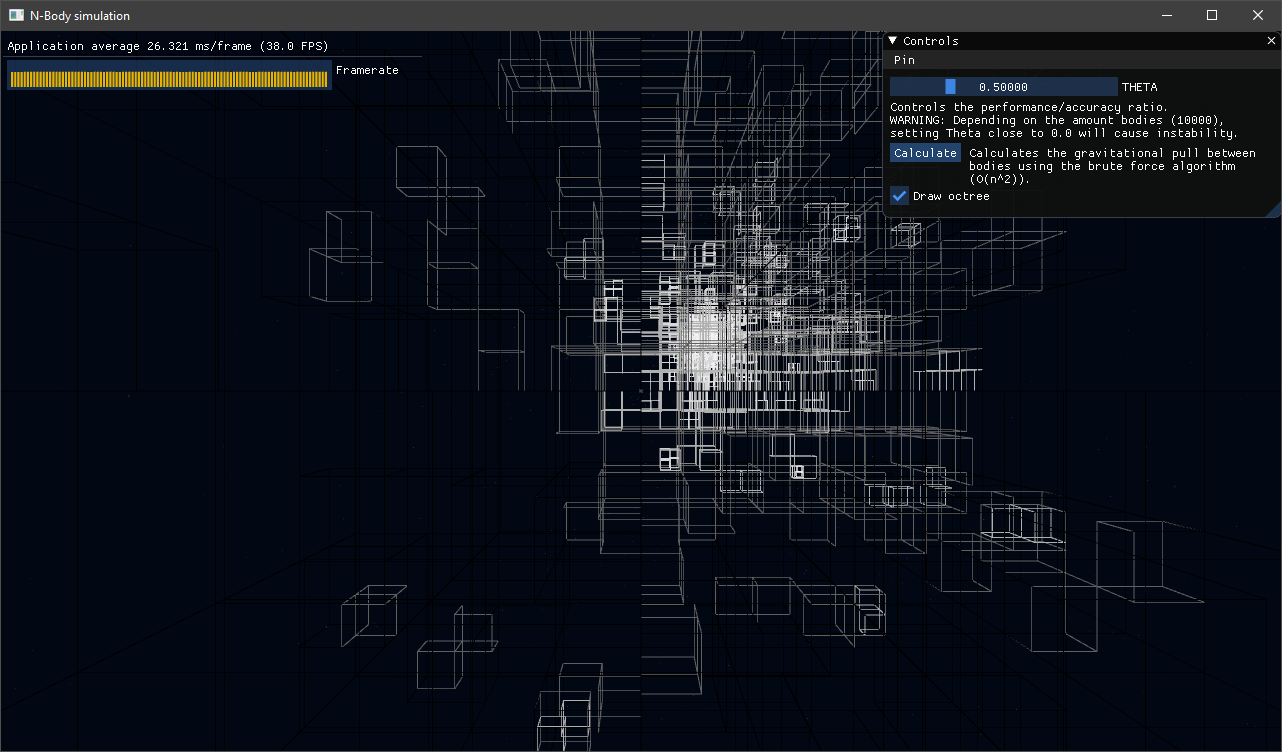
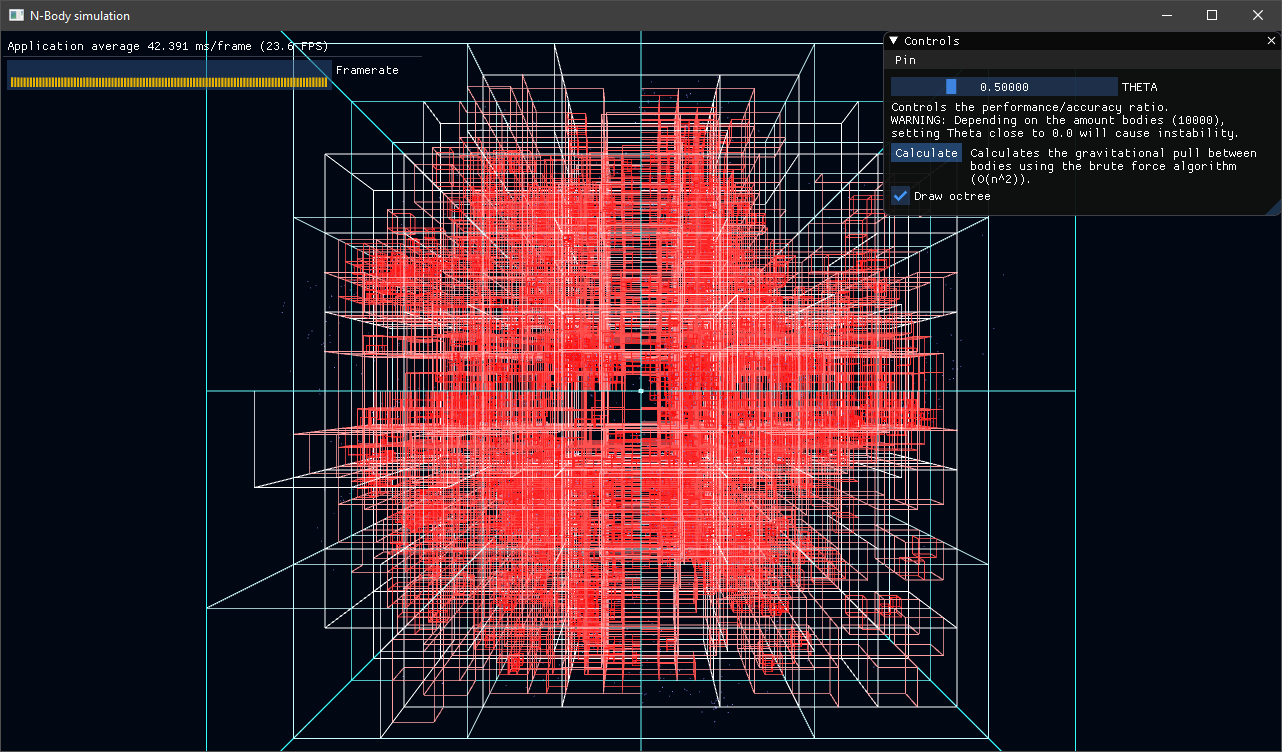
Updated visualization.

diff --git a/nbody/Graphics.cpp b/nbody/Graphics.cpp
@@ -105,20 +105,20 @@ void initGFXBodies(const glm::mat4& MVP)
 
 	const float vertices[] =
 	{
-		-X,  Y,  Z,  -X,  Y, -Z,
-		 X,  Y,  Z,   X,  Y, -Z,
-		-X,  Y, -Z,  -X,  Y,  Z,
-		 X,  Y, -Z,   X,  Y,  Z,
+		-X,  Y,  Z,
+		 X,  Y,  Z,
+		-X,  Y, -Z,
+		 X,  Y, -Z,
 					  
-		 Y,  Z,  X,   Y,  Z, -X,
-		 Y,  Z, -X,   Y,  Z,  X,
-		 Y, -Z,  X,   Y, -Z, -X,
-		 Y, -Z, -X,   Y, -Z,  X,
+		 Y,  Z,  X,
+		 Y,  Z, -X,
+		 Y, -Z,  X,
+		 Y, -Z, -X,
 					  
-		 Z,  X,  Y,   Z,  X, -Y,
-		-Z,  X,  Y,  -Z,  X, -Y,
-		 Z, -X,  Y,   Z, -X, -Y,
-		-Z, -X,  Y,  -Z, -X, -Y,
+		 Z,  X,  Y,
+		-Z,  X,  Y,
+		 Z, -X,  Y,
+		-Z, -X,  Y, 
 	};
 
 	const unsigned short elements[] = {
@@ -152,9 +152,7 @@ void initGFXBodies(const glm::mat4& MVP)
 	glBindVertexArray(VAOshape);
 
 	glEnableVertexAttribArray(0);
-	glVertexAttribPointer(0, 3, GL_FLOAT, false, sizeof(float) * 6, nullptr);
-	glEnableVertexAttribArray(1);
-	glVertexAttribPointer(1, 3, GL_FLOAT, false, sizeof(float) * 6, (void*)(sizeof(float) * 3));
+	glVertexAttribPointer(0, 3, GL_FLOAT, false, 0, nullptr);
 
 	glGenBuffers(1, &IBOshape);
 	glBindBuffer(GL_ELEMENT_ARRAY_BUFFER, IBOshape);
@@ -168,16 +166,15 @@ void initGFXBodies(const glm::mat4& MVP)
 	glBindVertexArray(VAO);
 	glBindBuffer(GL_ARRAY_BUFFER, VBO);
 
-	glEnableVertexAttribArray(2);
-	glVertexAttribPointer(2, 3, GL_FLOAT, GL_FALSE, sizeof(Body), nullptr);
+	glEnableVertexAttribArray(1);
+	glVertexAttribPointer(1, 3, GL_FLOAT, GL_FALSE, sizeof(Body), nullptr);
 
-	glEnableVertexAttribArray(3);
-	glVertexAttribPointer(3, 1, GL_FLOAT, GL_FALSE, sizeof(Body), (void*)sizeof(glm::vec3));
+	glEnableVertexAttribArray(2);
+	glVertexAttribPointer(2, 1, GL_FLOAT, GL_FALSE, sizeof(Body), (void*)sizeof(glm::vec3));
 
 	glVertexAttribDivisor(0, 0);
-	glVertexAttribDivisor(1, 0);
+	glVertexAttribDivisor(1, 1);
 	glVertexAttribDivisor(2, 1);
-	glVertexAttribDivisor(3, 1);
 
 	glViewport(0, 0, WIDTH, HEIGHT);
 	glUniformMatrix4fv(glGetUniformLocation(programBodies, "MVP"), 1, GL_FALSE, glm::value_ptr(MVP));
@@ -269,22 +266,19 @@ void drawBodies(const Body* bods, const glm::mat4& MVP)
 
 	glEnableVertexAttribArray(0);
 	glBindBuffer(GL_ARRAY_BUFFER, VBOshape);
-	glVertexAttribPointer(0, 3, GL_FLOAT, false, sizeof(float) * 6, nullptr);
-	glEnableVertexAttribArray(1);
-	glVertexAttribPointer(1, 3, GL_FLOAT, false, sizeof(float) * 6, (void*)(sizeof(float) * 3));
+	glVertexAttribPointer(0, 3, GL_FLOAT, false, 0, nullptr);
 
+	glEnableVertexAttribArray(1);
 	glEnableVertexAttribArray(2);
-	glEnableVertexAttribArray(3);
 	glBindBuffer(GL_ARRAY_BUFFER, VBO);
 	glBufferData(GL_ARRAY_BUFFER, AMOUNT * sizeof(Body), nullptr, GL_STREAM_DRAW);
 	glBufferSubData(GL_ARRAY_BUFFER, 0, AMOUNT * sizeof(Body), bods);
-	glVertexAttribPointer(2, 3, GL_FLOAT, GL_FALSE, sizeof(Body), nullptr);
-	glVertexAttribPointer(3, 1, GL_FLOAT, GL_FALSE, sizeof(Body), (void*)sizeof(glm::vec3));
+	glVertexAttribPointer(1, 3, GL_FLOAT, GL_FALSE, sizeof(Body), nullptr);
+	glVertexAttribPointer(2, 1, GL_FLOAT, GL_FALSE, sizeof(Body), (void*)sizeof(glm::vec3));
 
 	glVertexAttribDivisor(0, 0);
-	glVertexAttribDivisor(1, 0);
+	glVertexAttribDivisor(1, 1);
 	glVertexAttribDivisor(2, 1);
-	glVertexAttribDivisor(3, 1);
 
 	glBindBuffer(GL_ELEMENT_ARRAY_BUFFER, IBOshape);
 	int size;  glGetBufferParameteriv(GL_ELEMENT_ARRAY_BUFFER, GL_BUFFER_SIZE, &size);
@@ -293,7 +287,6 @@ void drawBodies(const Body* bods, const glm::mat4& MVP)
 	glDisableVertexAttribArray(0);
 	glDisableVertexAttribArray(1);
 	glDisableVertexAttribArray(2);
-	glDisableVertexAttribArray(3);
 
 	glUseProgram(0);
 }
@@ -312,7 +305,6 @@ void drawBox(const BoundingBox* boxes, const glm::mat4& MVP, const int amount)
 	glVertexAttribPointer(0, 3, GL_FLOAT, false, 0, nullptr);
 
 	glEnableVertexAttribArray(2);
-	glEnableVertexAttribArray(3);
 	glBindBuffer(GL_ARRAY_BUFFER, VBOboxpos);
 	glBufferData(GL_ARRAY_BUFFER, amount * sizeof(BoundingBox), nullptr, GL_STREAM_DRAW);
 	glBufferSubData(GL_ARRAY_BUFFER, 0, amount * sizeof(BoundingBox), boxes);

diff --git a/nbody/main.cpp b/nbody/main.cpp
@@ -26,7 +26,7 @@ int main()
 	glm::mat4 projection(1.f);
 	projection = glm::perspective(glm::radians(45.f), (float)fbW / (float)fbH, 0.1f, 100.f);
 
-	Camera camera = Camera(glm::vec3(0.f, 0.f, 5.f), glm::vec3(0.f, 0.f, 0.f), glm::vec3(0.f, 1.f, 0.f));
+	Camera camera = Camera(glm::vec3(0.f, 0.f, 30.f), glm::vec3(0.f, 0.f, 0.f), glm::vec3(0.f, 1.f, 0.f));
 	camera.update();
 
 	glm::mat4 MVP = projection * camera.getView() * model;
@@ -58,9 +58,9 @@ int main()
 		ImGui::PlotHistogram("Framerate", fps.data(), fps.size(), 0, NULL, 0.0f, 60.0f, ImVec2(325, 30));
 	});
 
-	bool boxes = false;
+	bool showBoxes = false;
 	//???
-	wm[1].value()->addDrawables([&tree, &boxes]()
+	wm[1].value()->addDrawables([&tree, &showBoxes]()
 	{
 		ImGui::SliderFloat("THETA", &tree.getTheta(), 0.f, 2.f, "%.5f");
 		ImGui::TextWrapped("Controls the performance/accuracy ratio.\nWARNING: Depending on the amount bodies (%i), setting Theta close to 0.0 will cause instability.", AMOUNT);
@@ -70,7 +70,7 @@ int main()
 		}
 		ImGui::SameLine();
 		ImGui::TextWrapped("Calculates the gravitational pull between bodies using the brute force algorithm (O(n^2)).");
-		ImGui::Checkbox("Draw octree", &boxes);
+		ImGui::Checkbox("Draw octree", &showBoxes);
 	});
 
 	ImGui::CreateContext();
@@ -92,7 +92,7 @@ int main()
 			MVP = projection * camera.getView() * model;
 
 			drawBodies(tree.getBodiesData(), MVP);
-			if (boxes)
+			if (showBoxes)
 			{
 				drawBox(tree.getBoxesData(), MVP, tree.getBoxAmount());
 			}

diff --git a/nbody/Octree.cpp b/nbody/Octree.cpp
@@ -7,7 +7,6 @@ Octree::Octree(const int amount) : mAmount(amount)
 
 	mRng = std::mt19937(mSeed());
 	mDist = std::uniform_real_distribution<>(-1, 1);
-	mDistMass = std::uniform_real_distribution<>(0.1, 1);
 
 	mBodies.reserve(mAmount);
 	glm::vec3 tempPos;
@@ -136,9 +135,9 @@ glm::vec3 Octree::randomPos()
 	glm::vec3 pos;
 	float t = mDist(mRng) * 2.f * PI;
 	float s = mDist(mRng) * PI;
-	pos.x = sin(t)*cos(s);
-	pos.y = sin(t)*sin(s);
-	pos.z = cos(t)*mDist(mRng);
+	pos.x = sin(t)*cos(s)*8.f;
+	pos.y = sin(t)*sin(s)*8.f;
+	pos.z = cos(t)*mDist(mRng)*8.f;
 
 	return pos;
 }
@@ -148,6 +147,6 @@ glm::vec3 Octree::randomVel(glm::vec3 pos)
 	// Initial velocity is 'orbital' velocity from position
 	glm::vec3 vel = glm::cross(glm::vec3(pos), glm::vec3(0, 0, 1));
 	float orbital_vel = sqrt(2 * glm::length(vel));
-	vel = glm::normalize(vel)*orbital_vel / 10000.f;
+	vel = glm::normalize(vel)*orbital_vel / 20000.f;
 	return vel;
 }

diff --git a/nbody/Camera.cpp b/nbody/Camera.cpp
@@ -39,13 +39,13 @@ void Camera::input(GLFWwindow* window) noexcept
 	const double speed = 1 * _deltaTime;
 
 	if (glfwGetKey(window, GLFW_KEY_W) == GLFW_PRESS)
-		_pos = {0.f, 0.f, -5.f};
+		_pos = {0.f, 0.f, -30.f};
 	if (glfwGetKey(window, GLFW_KEY_S) == GLFW_PRESS)
-		_pos = { 0.f, 0.f, 5.f };
+		_pos = { 0.f, 0.f, 30.f };
 	if (glfwGetKey(window, GLFW_KEY_A) == GLFW_PRESS)
-		_pos = { -5.f, 0.f, 0.f };
+		_pos = { -30.f, 0.f, 0.f };
 	if (glfwGetKey(window, GLFW_KEY_D) == GLFW_PRESS)
-		_pos = { 5.f, 0.f, 0.f };
+		_pos = { 30.f, 0.f, 0.f };
 	if (glfwGetKey(window, GLFW_KEY_Q) == GLFW_PRESS)
 		_pos *= 1.05f;
 	if (glfwGetKey(window, GLFW_KEY_E) == GLFW_PRESS)

diff --git a/nbody/Node.cpp b/nbody/Node.cpp
@@ -151,7 +151,7 @@ inline bool Node::isInside(const std::shared_ptr<Body>& body) const
 
 void Node::addBody(std::shared_ptr<Body>& body)
 {
-	pBodies.push_back(std::move(body));
+	pBodies.emplace_back(std::forward<std::shared_ptr<Body>>(body));
 }
 
 BoundingBox Node::getRegion() noexcept

diff --git a/nbody/Octree.h b/nbody/Octree.h
@@ -33,6 +33,5 @@ private:
 	std::random_device mSeed;
 	std::mt19937 mRng;
 	std::uniform_real_distribution<> mDist;
-	std::uniform_real_distribution<> mDistMass;
 	
 };
